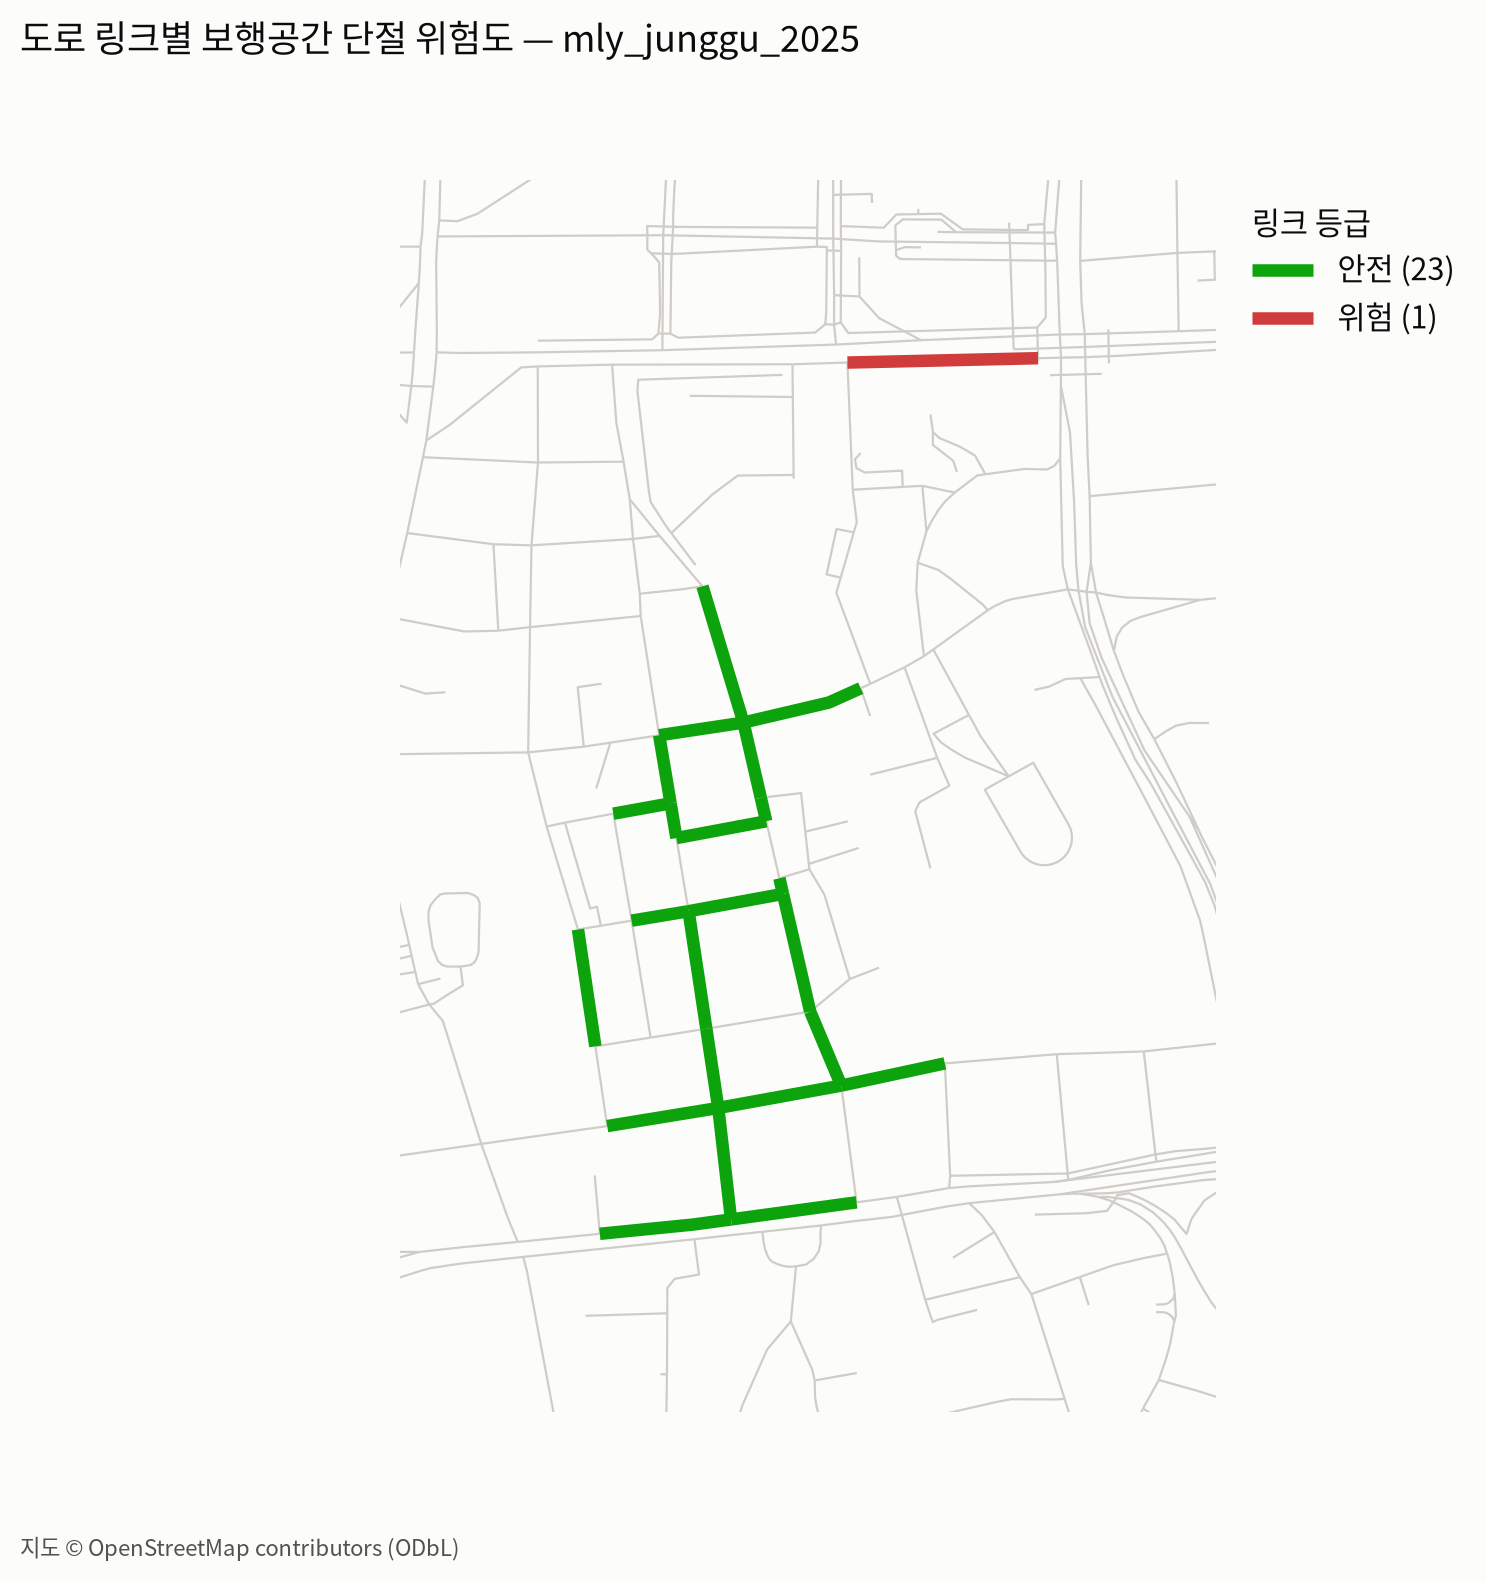
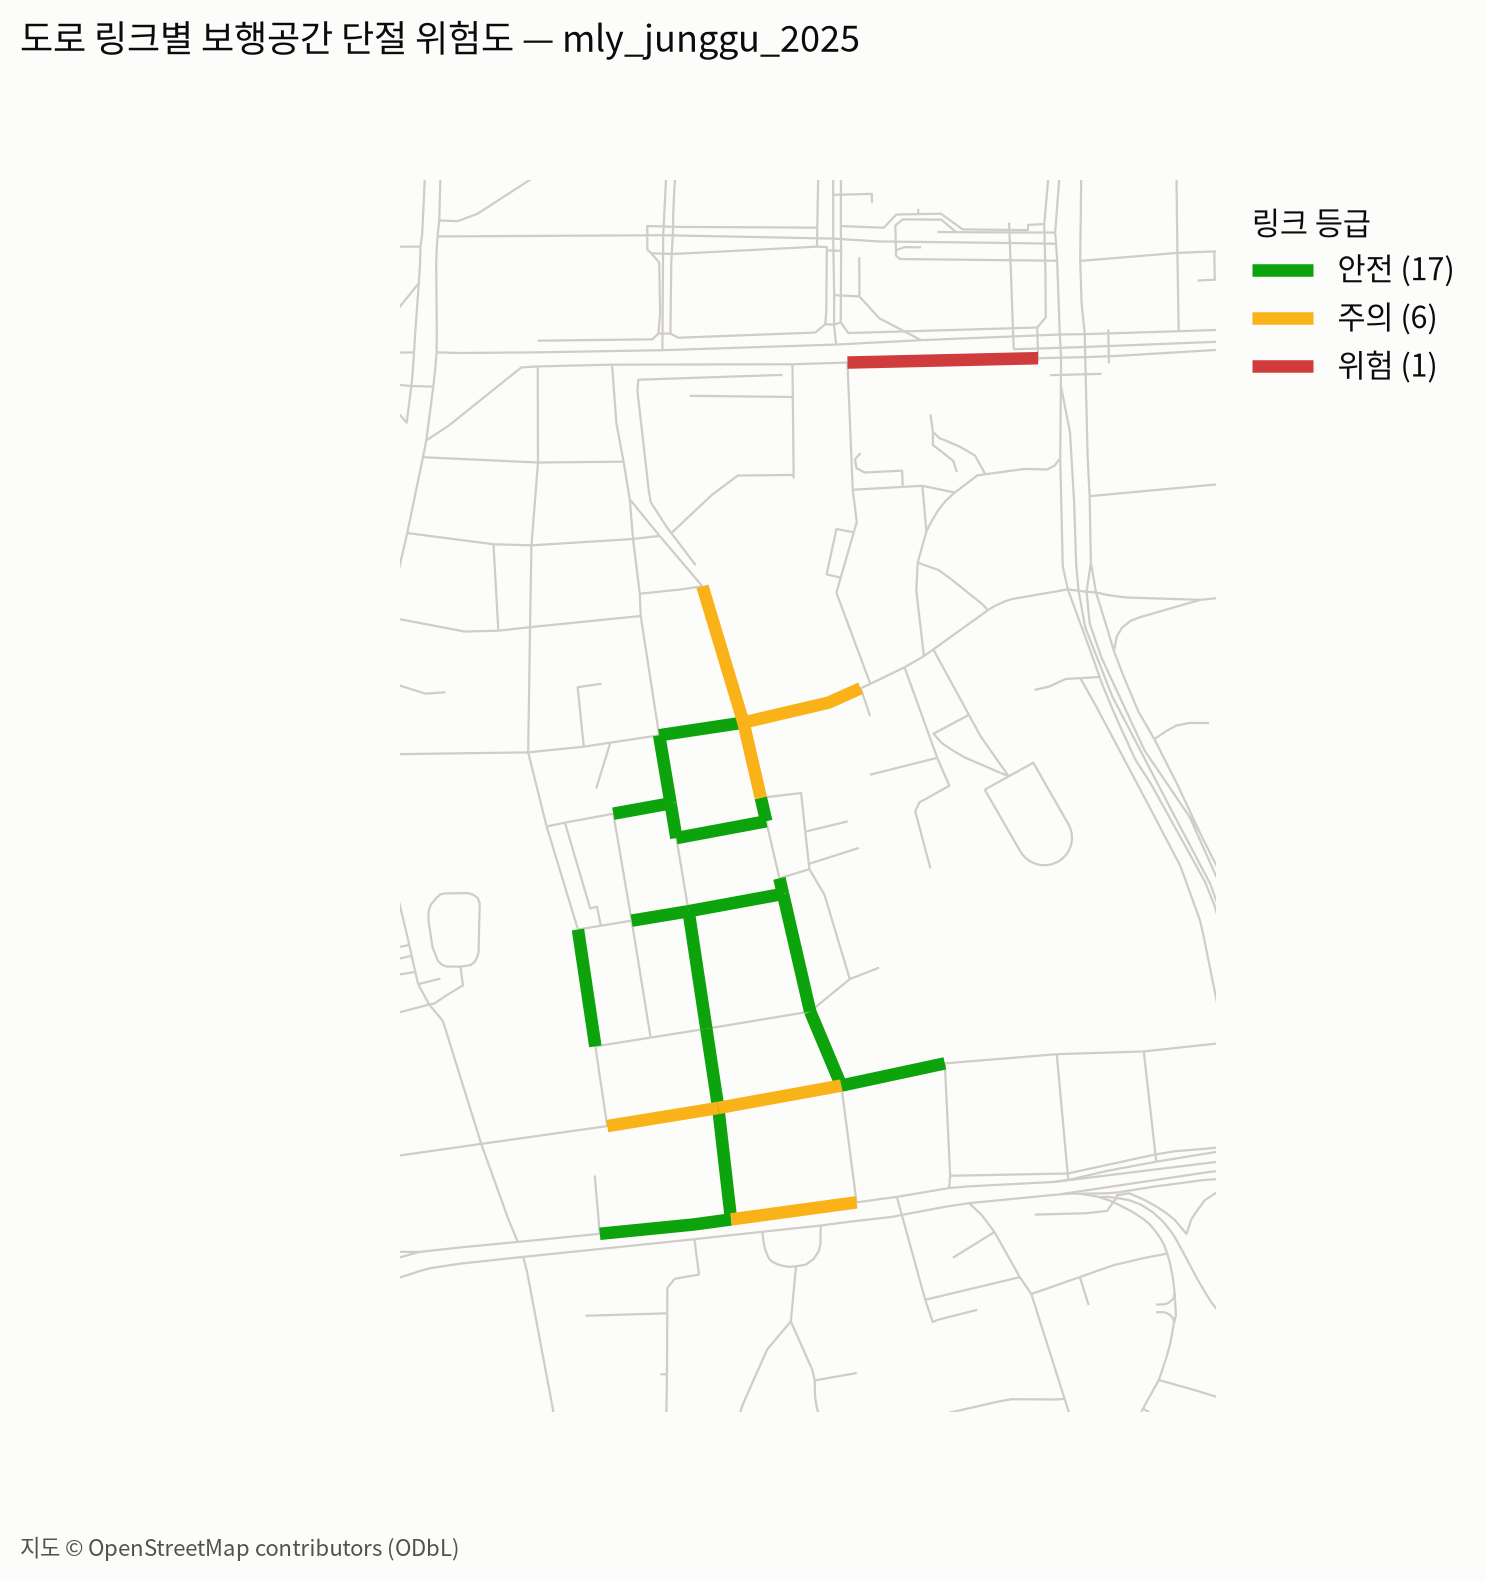
유효보행폭 비율 v2: 병목(최저 2줄 평균) + 장애물 통과 여유 1% (명동 실사진에서 노점·입간판 미반영 문제). 재평가: MAE 0.017(954장), 0.038 vs SAM3 0.109(150장)

diff --git a/src/roadpush/width_ratio.py b/src/roadpush/width_ratio.py
@@ -10,7 +10,10 @@
     blocked  : corridor 안의 O 픽셀 수
     ratio    : free / span                        … 유효보행폭 비율 (0~1)
 
-프레임 값은 하단 여러 스캔라인의 중앙값. 보도가 거의 안 보이면 sidewalk_present=False.
+프레임 값은 **병목**: 하단 스캔라인 중 비율이 가장 낮은 2줄의 평균(1줄 노이즈 완화).
+장애물이 일부 줄에만 걸려도 반영되게 중앙값 대신 병목을 쓴다(명동 실사진에서 중앙값은 노점·입간판을 희석).
+장애물은 행마다 좌우로 gap 만큼 넓혀(통과 여유) 세그 마스크 경계의 몇 px 틈 때문에 보도와 분리되는 것을 막는다.
+보도가 거의 안 보이면 sidewalk_present=False.
 
 절대폭(보조 지표, 1.2 m 법정 유효폭 비교용) — metric_width():
     평지·직선·폭 일정한 보도를 카메라 롤 0 으로 보면 행 y 의 보도 폭(px)은 span(y) = a·(y − y_h) (y_h: 지평선).
@@ -115,9 +118,11 @@ def obstacles_on_sidewalk(sidewalk: Mask, instances: Iterable[Mask], dilate_px: 
 # ---------------------------------------------------------------- 핵심
 
 def row_ratio(sidewalk_row: np.ndarray, obstacle_row: np.ndarray, y: int = 0,
-              min_sidewalk_px: int = 40) -> RowResult | None:
+              min_sidewalk_px: int = 40, gap_px: int = 0) -> RowResult | None:
     S = np.asarray(sidewalk_row, dtype=bool)
     O = np.asarray(obstacle_row, dtype=bool)
+    if gap_px > 0 and O.any():   # 장애물 좌우 통과 여유 + 마스크 경계 틈 메우기
+        O = np.convolve(O.astype(np.uint8), np.ones(2 * gap_px + 1, np.uint8), mode="same") > 0
     best = None
     best_key = (-1, -1)
     for a, b in runs(S | O):
@@ -169,7 +174,8 @@ def metric_width(rows: Sequence[RowResult], img_w: int, cam_h: float = 1.3, min_
 
 
 def frame_ratio(sidewalk: Mask, obstacle: Mask, rows: Sequence[int] | None = None,
-                min_sidewalk_px: int = 40, min_valid_fraction: float = 0.5, cam_h: float = 1.3) -> FrameResult:
+                min_sidewalk_px: int = 40, min_valid_fraction: float = 0.5, cam_h: float = 1.3,
+                gap_frac: float = 0.01, bottleneck_k: int = 2) -> FrameResult:
     """프레임 하나의 유효보행폭 비율.
 
     sidewalk : 걸을 수 있는 면(sidewalk ∪ braille) 마스크
@@ -179,12 +185,14 @@ def frame_ratio(sidewalk: Mask, obstacle: Mask, rows: Sequence[int] | None = Non
     H = sidewalk.shape[0]
     rows = list(rows) if rows is not None else default_rows(H)
     results: list[RowResult] = []
+    gap = int(round(gap_frac * sidewalk.shape[1]))
     for y in rows:
-        r = row_ratio(sidewalk[y], obstacle[y], y=y, min_sidewalk_px=min_sidewalk_px)
+        r = row_ratio(sidewalk[y], obstacle[y], y=y, min_sidewalk_px=min_sidewalk_px, gap_px=gap)
         if r is not None:
             results.append(r)
     if len(results) < max(1, int(np.ceil(min_valid_fraction * len(rows)))):
         return FrameResult(0.0, 0.0, False, results, len(rows))
     ratios = np.array([r.ratio for r in results])
     mw = metric_width(results, sidewalk.shape[1], cam_h)
-    return FrameResult(float(np.median(ratios)), float(ratios.min()), True, results, len(rows), mw)
+    bottleneck = float(np.sort(ratios)[:bottleneck_k].mean())
+    return FrameResult(bottleneck, float(ratios.min()), True, results, len(rows), mw)

diff --git a/tests/test_width_ratio.py b/tests/test_width_ratio.py
@@ -43,16 +43,27 @@ def test_row_ratio_none_when_too_little_sidewalk():
     assert row_ratio(S, np.zeros(200, dtype=bool), min_sidewalk_px=40) is None
 
 
-def test_frame_ratio_median_and_presence():
+def test_frame_ratio_presence_and_clearance():
     sw = _canvas(); ob = _canvas()
     sw[50:100, 50:150] = True
     ob[60:100, 90:110] = True
     sw[60:100, 90:110] = False
-    res = frame_ratio(sw, ob)
-    assert res.sidewalk_present
-    assert res.ratio == pytest.approx(0.4)
-    assert res.min_ratio == pytest.approx(0.4)
+    assert frame_ratio(sw, ob, gap_frac=0).ratio == pytest.approx(0.4)
+    res = frame_ratio(sw, ob)               # 기본: 화면 폭 1%(2px) 통과 여유
+    assert res.sidewalk_present and res.ratio == pytest.approx(0.38)
     assert res.valid_fraction == 1.0
+
+
+def test_bottleneck_and_gap_bridging():
+    sw = _canvas(); ob = _canvas()
+    sw[50:100, 50:150] = True
+    ob[85:92, 50:100] = True; sw[85:92, 50:100] = False     # 2줄 높이에만 걸친 장애물(왼쪽 절반)
+    assert frame_ratio(sw, ob, gap_frac=0).ratio < 0.6      # 중앙값이면 1.0 → 병목으로 반영
+    sw2 = _canvas(); ob2 = _canvas()
+    sw2[50:100, 60:150] = True
+    ob2[50:100, 40:57] = True                               # 보도와 3px 틈을 둔 노점
+    assert frame_ratio(sw2, ob2, gap_frac=0).ratio == pytest.approx(1.0)
+    assert frame_ratio(sw2, ob2, gap_frac=0.02).ratio < 0.85  # 틈 메움 → 협소로 반영
 
 
 def test_frame_ratio_no_sidewalk():

diff --git a/scripts/make_figures.py b/scripts/make_figures.py
@@ -40,11 +40,11 @@ def _font() -> None:
 
 def fig_compare(out: Path) -> None:
     ev = ROOT / "outputs"
-    rows = [("SAM 3 (zero-shot)", ev / "teachers/eval_sam3_surface.json"),
-            ("Grounding DINO+SAM 2 (zero-shot)", ev / "teachers/eval_gdino_surface.json"),
-            ("RoadPush RF-DETR-Seg (파인튜닝)", ev / "eval/eval_surface_final_150.json")]
+    rows = [("SAM 3 (zero-shot)", ev / "teachers/eval_sam3_surface_v2.json"),
+            ("Grounding DINO+SAM 2 (zero-shot)", ev / "teachers/eval_gdino_surface_v2.json"),
+            ("RoadPush RF-DETR-Seg (파인튜닝)", ev / "eval/eval_surface_final_150_v2.json")]
     data = [(n, json.loads(p.read_text())) for n, p in rows if p.exists()]
-    metrics = [("유효보행폭 비율 오차 (MAE, 낮을수록 좋음)", "ratio_mae", "{:.3f}"),
+    metrics = [("유효보행폭 비율 오차 (병목 MAE, 낮을수록 좋음)", "ratio_mae", "{:.3f}"),
                ("보도 IoU (높을수록 좋음)", None, "{:.2f}"),
                ("보도 소멸 판정 F1 (높을수록 좋음)", "vanish_f1", "{:.2f}")]
     fig, axes = plt.subplots(1, 3, figsize=(15, 3.6))

diff --git a/tests/test_scoring.py b/tests/test_scoring.py
@@ -81,7 +81,7 @@ def test_grating_walkable_tree_zone_blocks():
     tz = np.zeros((H, W), dtype=bool); tz[110:199, 100:180] = True    # 가로수 보호틀: 보도 왼쪽 40%
     sw2 = _sidewalk(); sw2[110:199, 100:180] = False
     fa = analyze_frame({"sidewalk": [sw2], "tree_zone": [tz]}, (H, W))
-    assert fa.ratio == pytest.approx(0.6, abs=0.02)
+    assert fa.ratio == pytest.approx(0.58, abs=0.03)
 
 
 def test_legal_width_aux():

diff --git a/docs/results.md b/docs/results.md
@@ -72,6 +72,19 @@ Polygon valid 40장, GT 면적 ≥ 1500 px² 객체를 '있음'으로.
 - 150장 부분집합에서는 ep3 이 비율 지표가 더 좋았으나 전체 954장에서는 최종이 모든 지표에서 우세(위 표 3) → **소표본 흔들림**, 보고서에는 전체 954장 수치를 대표로.
 - 약점: stairs(학습 187개) 희소 → zero-shot 이 오히려 나음. 계단 태그는 VLM 확인·SAM 3 보강으로 보완.
 
+## 3-2. 비율 정의 변경 (v2, 15:45) — 병목 + 통과 여유
+
+명동 실사진에서 노점·입간판이 있어도 비율이 1.00 으로 나오는 문제 → 원인 두 가지:
+(1) 스캔라인 **중앙값**이 일부 줄에만 걸린 장애물을 희석, (2) 세그 마스크 경계의 몇 px 틈 때문에 노점이 보도와 다른 구간으로 분리.
+→ 프레임 비율 = **가장 낮은 2줄 평균(병목)**, 장애물 좌우 **화면 폭 1% 통과 여유**(틈 메움 겸). 이후 수치는 v2 기준.
+
+| 비율 MAE (v2) | SAM 3 | GDINO+SAM2 | RF-DETR-Seg 파인튜닝 |
+|---|---|---|---|
+| 동일 150장 | 0.109 | 0.200 | **0.038** |
+| 전체 954장 | – | – | **0.017** (≤0.1: 97.0 %, 소멸 F1 0.915, mIoU 0.670) |
+
+명동 2025 (보도면 최종 + 장애물 ep1): 프레임 비율 P10 0.59, 링크 안전 17·주의 6·위험 1, 보차 혼용 11 (명동길·명동8나길 등).
+
 ## 4. 절대폭 보조 지표 (GT 마스크, Surface valid 239장)
 
 카메라 높이 1.3 m 가정, 스캔라인 폭 선형 적합(R² ≥ 0.9)으로 지평선 추정 → W = h·a.
